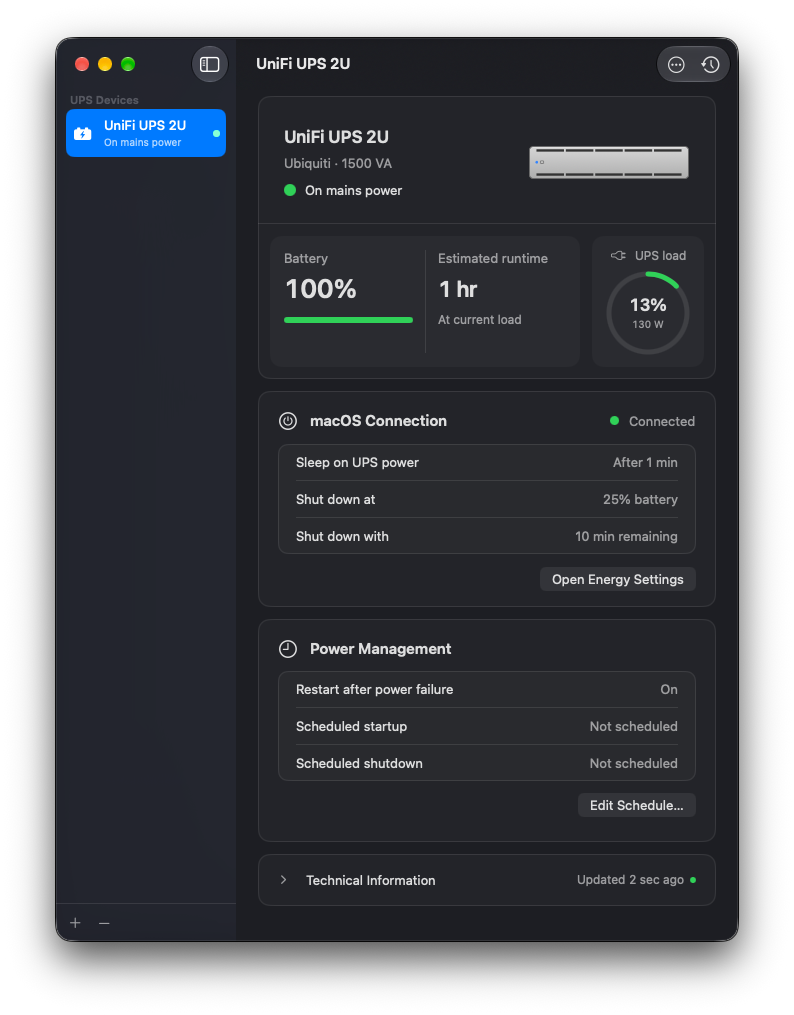
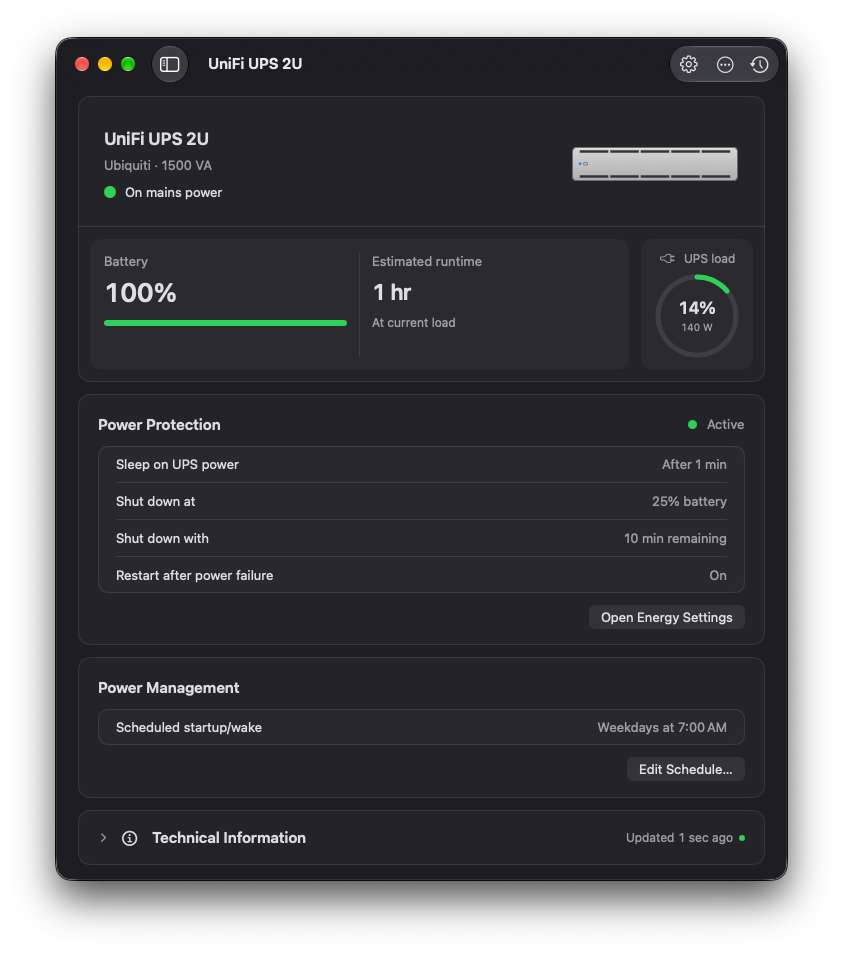
Retake the README previews and log the welcome screen check
The overview images now show Power Protection and the current Power
Management card. Add a capture of the new welcome screen and note how
both were checked.

diff --git a/Documentation/UI-Verification.md b/Documentation/UI-Verification.md
@@ -329,3 +329,18 @@ nothing, and the copy falls back to default preferences, which publish to macOS.
   state. Debug builds take `-SquirrelAppearance Dark` (or `Light`) to force every
   window's appearance without changing the system's. Captures:
   `Images/overview-light.png` and `Images/overview-dark.png`.
+
+## Setup welcome screen and README previews — 28 October 2026
+
+- The welcome screen was rebuilt to the supplied render: the mascot, "Connect
+  Your UPS", and Battery & Runtime, Power Protection and Power History rows in
+  one container, with Not Now and Continue. The window is "Set Up Squirrel".
+  Light and dark were checked offscreen first, then in John's Xcode build.
+- Continue led to Find Your UPS. The search found the real UPS, and setup
+  finished with it shared with macOS (`pmset -g ps` lists one UniFi UPS 2U).
+  Not Now uses the same exit as Cancel and was not clicked.
+- README previews were retaken from that build at 731 × 842 pt with the window
+  focused, in the system's light and then dark appearance. They show Power
+  Protection "Active" and a single set schedule. Captures:
+  `Images/overview-light.png`, `Images/overview-dark.png` and
+  `Visual-Verification/welcome-light.png`.

diff --git a/README.md b/README.md
@@ -26,7 +26,7 @@
   <picture>
     <source media="(prefers-color-scheme: dark)" srcset="Documentation/Images/overview-dark.png">
     <source media="(prefers-color-scheme: light)" srcset="Documentation/Images/overview-light.png">
-    <img src="Documentation/Images/overview-light.png" width="560" alt="Squirrel's main window showing a UPS on mains power, its battery, runtime and load, and its connection to macOS">
+    <img src="Documentation/Images/overview-light.png" width="560" alt="Squirrel's main window showing a UPS on mains power, its battery, runtime and load, its Power Protection settings and its power schedule">
   </picture>
 </p>
 
